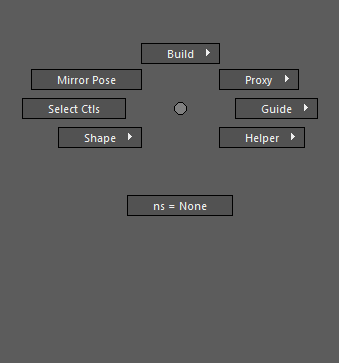
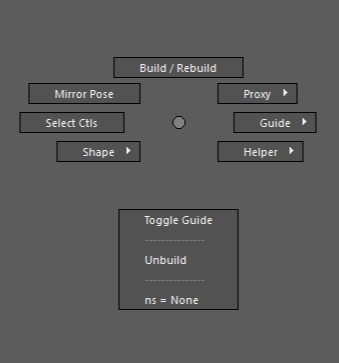
Update mid IK control color to yellow, enhance UI button connections, and rename shape store to shape library

diff --git a/nl_modules/nodel/base/dag_node.py b/nl_modules/nodel/base/dag_node.py
@@ -107,9 +107,9 @@ class DagNode(DepNode):
 
     def cstPoiMtx(self, tgt, mo=False):
         """Point-constraint-like setup using decomposeMatrix"""
-        cstPoiMtx = DepNode('cstPoiMtx_#', nodeType='decomposeMatrix')
+        cstPoiMtx = DepNode("cstPoiMtx_#", nodeType="decomposeMatrix")
         if mo == 0:
-            self.a.worldMatrix >>  cstPoiMtx.a.inputMatrix
+            self.a.worldMatrix >> cstPoiMtx.a.inputMatrix
             cstPoiMtx.a.outputTranslate >> tgt.a.t
         return cstPoiMtx
 
@@ -118,19 +118,19 @@ class DagNode(DepNode):
         grp = tgt.parent
         if grp.exists():
             # Store offset into tgt
-            tempMult = DepNode('_#', nodeType='multMatrix')
-            grp.a.worldMatrix >>  tempMult.a.matrixIn
+            tempMult = DepNode("_#", nodeType="multMatrix")
+            grp.a.worldMatrix >> tempMult.a.matrixIn
             self.a.worldInverseMatrix >> tempMult.a.matrixIn
-            myOffset = tgt.a.add('myOffset', type='matrix')
+            myOffset = tgt.a.add("myOffset", type="matrix")
             myOffset.set(mc.getAttr(tempMult.a.matrixSum), type="matrix")
             tempMult.delete()
 
             # A -> B's offsetParent
-            cstMtx = DepNode('cstMtx_#', nodeType='multMatrix')
-            myOffset >>  cstMtx.a.matrixIn
-            self.a.worldMatrix >>  cstMtx.a.matrixIn
-            grp.a.worldInverseMatrix >>  cstMtx.a.matrixIn
-            cstMtx.a.matrixSum >>  tgt.a.offsetParentMatrix
+            cstMtx = DepNode("cstMtx_#", nodeType="multMatrix")
+            myOffset >> cstMtx.a.matrixIn
+            self.a.worldMatrix >> cstMtx.a.matrixIn
+            grp.a.worldInverseMatrix >> cstMtx.a.matrixIn
+            cstMtx.a.matrixSum >> tgt.a.offsetParentMatrix
             return cstMtx
 
     def cstParR(self, tgt, keep=True, **kwargs):
@@ -677,7 +677,7 @@ class DagNode(DepNode):
         """Return type of shape or itself"""
         if self.exists():
             return mc.nodeType(self.shape or self)
-        
+
     @property
     def nType(self):
         """Return type of shape or itself"""
@@ -693,30 +693,30 @@ class DagNode(DepNode):
 
     def get_side_color(self, preset=0):
         """Return color depending on side"""
-        preset = DagNode.COLOR_PRESET_0 if preset == 0 else DagNode.COLOR_PRESET_1
+        colorPreset = DagNode.COLOR_PRESET_0 if preset == 0 else DagNode.COLOR_PRESET_1
         n = str(self.node)
 
         if n.startswith("lf"):
-            return preset[1]
+            return colorPreset[1]
         elif n.startswith("rt"):
-            return preset[2]
+            return colorPreset[2]
         else:
-            return preset[0]
+            return colorPreset[0]
 
     def get_opp_side_color(self):
         """Return color depending on side"""
         if self.name.endswith("_setting"):
             return self.color
 
-        preset = DagNode.COLOR_PRESET_0
+        colorPreset = DagNode.COLOR_PRESET_0
         n = str(self.node)
 
         if n.startswith("lf"):
-            return preset[2]
+            return colorPreset[2]
         elif n.startswith("rt"):
-            return preset[1]
+            return colorPreset[1]
         else:
-            return preset[0]
+            return colorPreset[0]
 
     def getMtx(self):
         """Get matrix from the node"""

diff --git a/nl_modules/nl_rigging_tools.py b/nl_modules/nl_rigging_tools.py
@@ -158,12 +158,12 @@ class MyToolWin(MayaQWidgetDockableMixin, QtWidgets.QMainWindow):
         # Ctl Tab
         self.UI.crvShape_LW.itemDoubleClicked.connect(self.crvShape_LW_dblClicked)
         # self.connect(self.UI.crvShape_breakInst_BN, self.crvShape_breakInst)
-        self.connect(self.UI.crvShape_new_BN, self.crvShape_new)  # , ":fileNew.png")
+        self.connect(self.UI.crvShape_new_BN, self.crvShape_new, ":addClip.png")
         self.connect(
-            self.UI.crvShape_apply_BN, self.crvShape_apply
-        )  # , ":openScript.png")
-        self.connect(self.UI.crvShape_save_BN, self.crvShape_save)  # , ":fileSave.png")
-        self.connect(self.UI.crvShape_del_BN, self.crvShape_del)  # , ":smallTrash.png")
+            self.UI.crvShape_apply_BN, self.crvShape_apply, ":teCreateClip.png"
+        )
+        self.connect(self.UI.crvShape_save_BN, self.crvShape_save, ":fileSave.png")
+        self.connect(self.UI.crvShape_del_BN, self.crvShape_del, ":smallTrash.png")
         icon = ":colorPresetSpectrum.png"
         self.connect(
             self.UI.assignColor_BN, partial(common.assignColor, preset=0), icon

diff --git a/nl_modules/build/spine_qd.py b/nl_modules/build/spine_qd.py
@@ -104,7 +104,7 @@ class SpineQd(RigModule):
 
         self.setting.color = Color.PINK
         self.setting.cv_move(0, rSz * 60, 0)
-        self.mid_ikc.color = Color.PINK
+        self.mid_ikc.color = Color.D_YELLOW
 
     def create_rbSrf(self):
         """Create the ribbon surface for the spine rig."""
